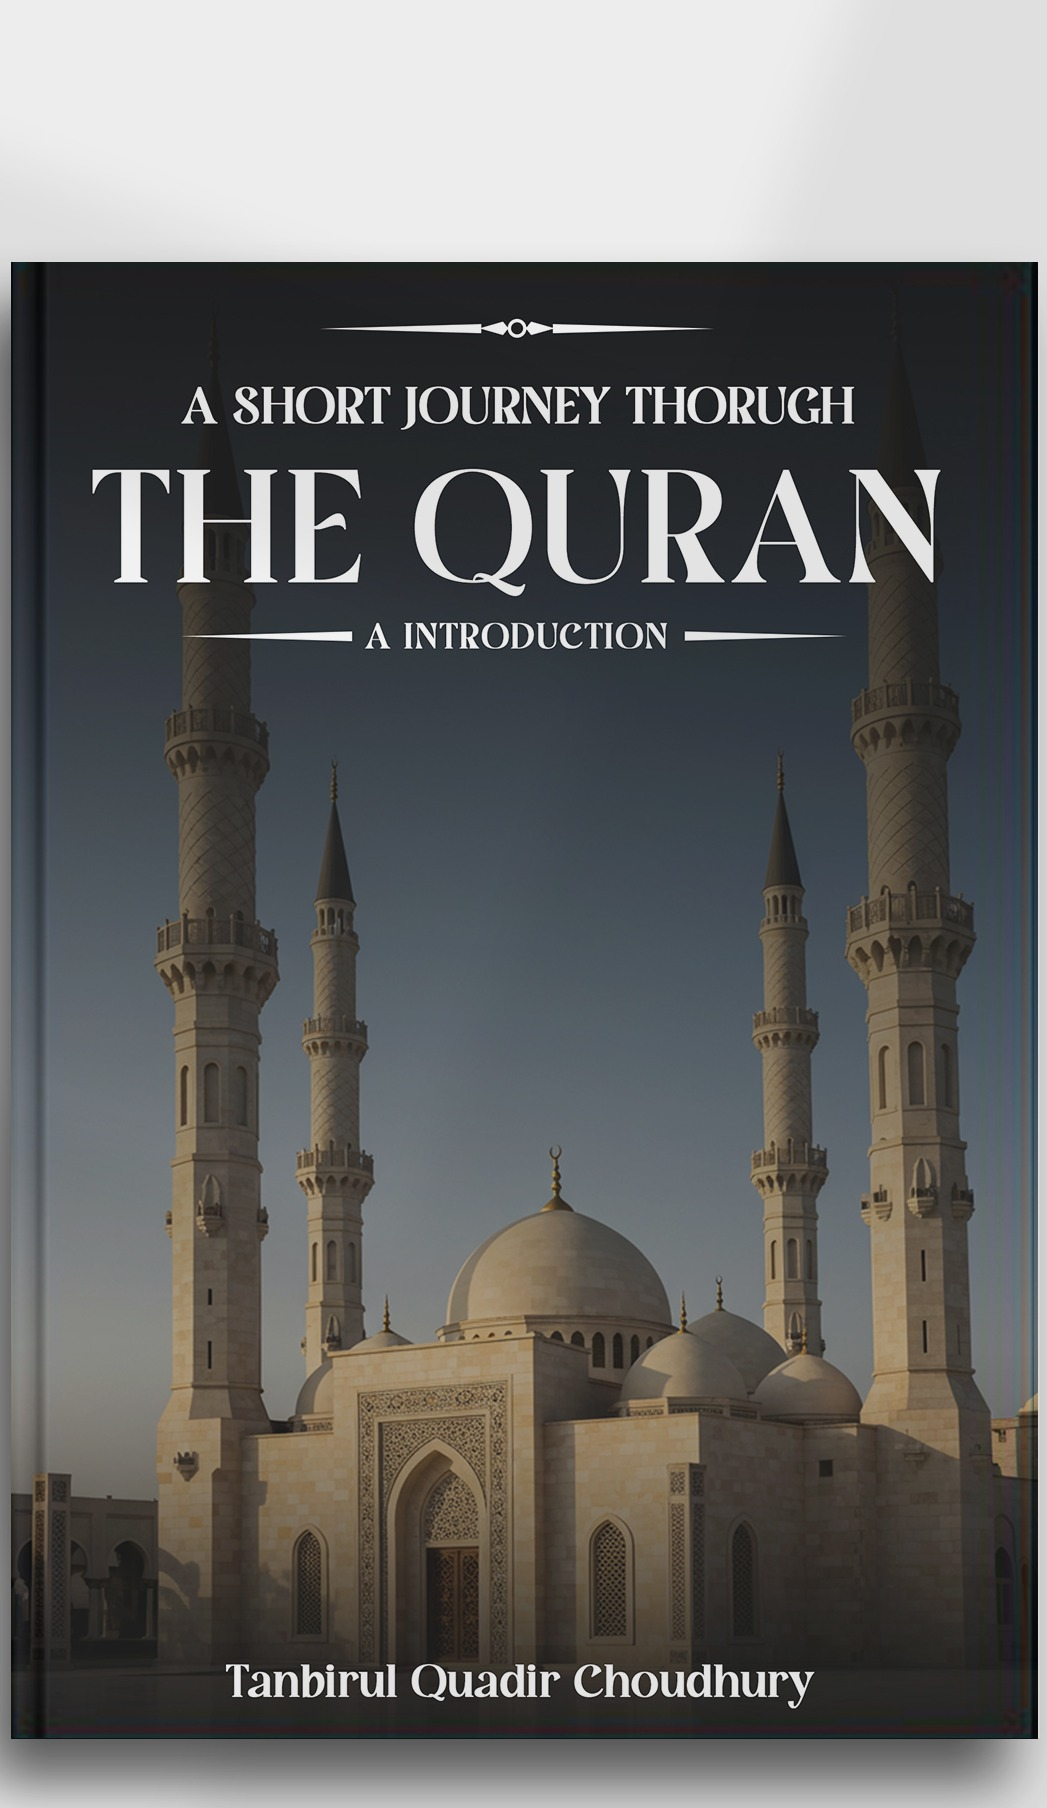
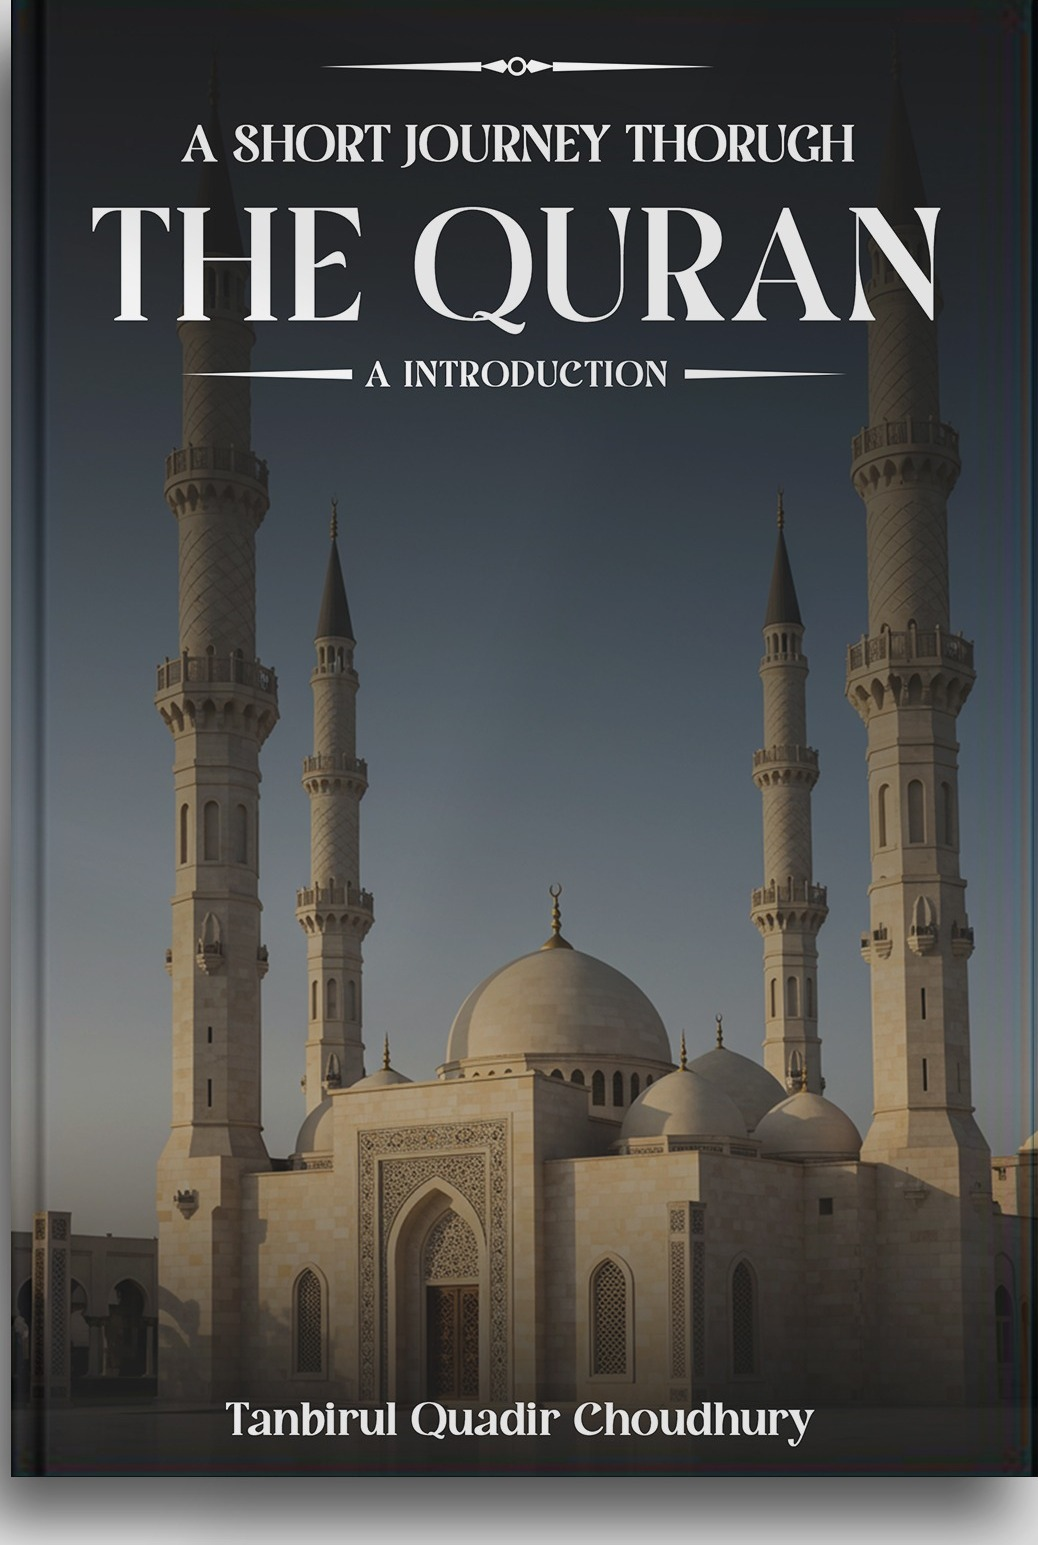
Final fixes: image trim, mobile responsive, spacing
- Auto-trimmed 262px white border from top of both covers
- Trimmed right/bottom white bleed edges
- Front: 1038x1545, Back: 1029x1537 (was 1047x1808)
- Mobile: front cover max-h-[400px], back cover max-h-[300px]
- Hero: min-h-[60vh] mobile, min-h-[75vh] desktop
- All sections: py-6 sm:py-8 lg:py-10
- Headings: text-2xl mobile, text-3xl sm, text-4xl lg
- Body text: text-base mobile, text-lg desktop
- Back cover section: gap-6 mobile, gap-12 desktop
- Card padding: p-5 mobile, p-8 sm, p-10 lg
- Applied to all pages (home, contents, about, contact)

diff --git a/src/app/page.tsx b/src/app/page.tsx
@@ -5,7 +5,7 @@ export default function Home() {
   return (
     <>
       {/* Hero Section */}
-      <section className="relative flex min-h-[70vh] items-center overflow-hidden">
+      <section className="relative flex min-h-[60vh] sm:min-h-[75vh] items-center overflow-hidden">
         {/* Background layers */}
         <div className="absolute inset-0 bg-gradient-to-b from-[#FAF8F5] via-[#F5F0E8] to-[#EDE8E0]" />
         <div className="geometric-pattern absolute inset-0 opacity-60" />
@@ -47,8 +47,8 @@ export default function Home() {
                 width={380}
                 height={600}
                 priority
-                className="book-cover-clean"
-                style={{ width: "auto", height: "auto", maxWidth: "380px" }}
+                className="book-cover-clean max-h-[400px] sm:max-h-none w-auto"
+                style={{ height: "auto", maxWidth: "380px" }}
               />
             </div>
 
@@ -70,7 +70,7 @@ export default function Home() {
                 An Introduction
               </p>
 
-              <p className="animate-fade-in-up delay-400 mt-6 max-w-lg font-body text-lg leading-relaxed text-[#6B5E56]">
+              <p className="animate-fade-in-up delay-400 mt-6 max-w-lg font-body text-base sm:text-lg leading-relaxed text-[#6B5E56]">
                 Embark on an enlightening journey through the Holy Quran. Discover its timeless
                 wisdom, scientific wonders, and the captivating stories of the prophets.
               </p>
@@ -98,26 +98,26 @@ export default function Home() {
       </section>
 
       {/* Book Blurb Section */}
-      <section className="relative py-8 sm:py-10">
+      <section className="relative py-6 sm:py-8 lg:py-10">
         <div className="mx-auto max-w-4xl px-4 sm:px-6 lg:px-8">
           <div className="section-divider mb-6" />
           <div className="animate-fade-in-up text-center">
-            <h2 className="font-heading text-3xl font-bold text-[#8B1A2B] sm:text-4xl">
+            <h2 className="font-heading text-2xl font-bold text-[#8B1A2B] sm:text-3xl lg:text-4xl">
               About This Book
             </h2>
             <div className="mx-auto mt-4 h-1 w-16 rounded bg-[#C9A84C]/60" />
           </div>
           <div className="animate-fade-in-up delay-200 mt-8">
-            <div className="warm-card accent-left p-8 sm:p-10">
+            <div className="warm-card accent-left p-5 sm:p-8 lg:p-10">
               <div className="space-y-6">
-                <p className="font-body text-lg leading-relaxed text-[#6B5E56]">
+                <p className="font-body text-base sm:text-lg leading-relaxed text-[#6B5E56]">
                   With a unique construct and presentation, this book is a short and interesting read
                   highlighting some of the major themes of the Quran. It introduces the reader to the
                   gems hidden within its verses -- from scientific references that predate modern
                   discoveries to the powerful stories of the prophets that continue to resonate across
                   generations.
                 </p>
-                <p className="font-body text-lg leading-relaxed text-[#6B5E56]">
+                <p className="font-body text-base sm:text-lg leading-relaxed text-[#6B5E56]">
                   Written with clarity and care, it is designed to be accessible and enjoyable for
                   readers of all backgrounds -- whether you are encountering the Quran for the first
                   time or revisiting its wisdom with fresh eyes. A readable, enriching journey awaits.
@@ -129,37 +129,37 @@ export default function Home() {
       </section>
 
       {/* Back Cover / Detailed Description */}
-      <section className="relative bg-[#EDE8E0] py-8 sm:py-10">
+      <section className="relative bg-[#EDE8E0] py-6 sm:py-8 lg:py-10">
         <div className="geometric-pattern absolute inset-0 opacity-40" />
         <div className="relative mx-auto max-w-6xl px-4 sm:px-6 lg:px-8">
-          <div className="grid items-center gap-12 lg:grid-cols-2">
+          <div className="grid items-center gap-6 lg:gap-12 lg:grid-cols-2">
             <div className="animate-slide-in-left">
               <Image
                 src="/images/book-cover-back.jpg"
                 alt="A Short Journey Through The Quran - Back Cover"
                 width={480}
                 height={800}
-                className="book-cover-clean mx-auto"
-                style={{ width: "100%", height: "auto", maxWidth: "420px" }}
+                className="book-cover-clean mx-auto max-h-[300px] sm:max-h-none w-auto sm:w-full"
+                style={{ height: "auto", maxWidth: "420px" }}
               />
             </div>
             <div className="animate-slide-in-right space-y-6">
-              <h2 className="font-heading text-3xl font-bold text-[#1B2A4A] sm:text-4xl">
+              <h2 className="font-heading text-2xl font-bold text-[#1B2A4A] sm:text-3xl lg:text-4xl">
                 Discover the Quran
               </h2>
               <div className="h-1 w-16 rounded bg-[#C9A84C]/60" />
-              <p className="font-body text-lg leading-relaxed text-[#6B5E56]">
+              <p className="font-body text-base sm:text-lg leading-relaxed text-[#6B5E56]">
                 Discover the foundational scripture that has shaped civilizations and inspired
                 billions. This book introduces you to the major themes and narratives of the
                 Holy Quran in an accessible, engaging format.
               </p>
-              <p className="font-body text-lg leading-relaxed text-[#6B5E56]">
+              <p className="font-body text-base sm:text-lg leading-relaxed text-[#6B5E56]">
                 Learn about the stories of the great prophets -- Abraham (Ibrahim), Moses (Musa),
                 Jesus (Issa), and Joseph (Yousuf) -- and the divine books including the Torah and
                 the Gospel. Explore references to science, history, and moral guidance that remain
                 profoundly relevant today.
               </p>
-              <p className="font-body text-lg leading-relaxed text-[#6B5E56]">
+              <p className="font-body text-base sm:text-lg leading-relaxed text-[#6B5E56]">
                 Ideal for students, curious minds, and anyone seeking to understand the essence
                 of the Quran without being overwhelmed. Begin your journey here.
               </p>
@@ -169,14 +169,14 @@ export default function Home() {
       </section>
 
       {/* Key Highlights */}
-      <section className="py-8 sm:py-10">
+      <section className="py-6 sm:py-8 lg:py-10">
         <div className="mx-auto max-w-7xl px-4 sm:px-6 lg:px-8">
           <div className="animate-fade-in-up text-center">
-            <h2 className="font-heading text-3xl font-bold text-[#8B1A2B] sm:text-4xl">
+            <h2 className="font-heading text-2xl font-bold text-[#8B1A2B] sm:text-3xl lg:text-4xl">
               Key Highlights
             </h2>
             <div className="mx-auto mt-4 h-1 w-16 rounded bg-[#C9A84C]/60" />
-            <p className="mt-4 font-body text-lg text-[#6B5E56]">
+            <p className="mt-4 font-body text-base sm:text-lg text-[#6B5E56]">
               What makes this book a must-read
             </p>
           </div>
@@ -204,14 +204,14 @@ export default function Home() {
       </section>
 
       {/* Where to Buy */}
-      <section id="where-to-buy" className="bg-[#EDE8E0] py-8 sm:py-10">
+      <section id="where-to-buy" className="bg-[#EDE8E0] py-6 sm:py-8 lg:py-10">
         <div className="mx-auto max-w-5xl px-4 sm:px-6 lg:px-8">
           <div className="animate-fade-in-up text-center">
-            <h2 className="font-heading text-3xl font-bold text-[#1B2A4A] sm:text-4xl">
+            <h2 className="font-heading text-2xl font-bold text-[#1B2A4A] sm:text-3xl lg:text-4xl">
               Where to Buy
             </h2>
             <div className="mx-auto mt-4 h-1 w-16 rounded bg-[#C9A84C]/60" />
-            <p className="mt-4 font-body text-lg text-[#6B5E56]">
+            <p className="mt-4 font-body text-base sm:text-lg text-[#6B5E56]">
               Get your copy today from these retailers
             </p>
           </div>
@@ -242,10 +242,10 @@ export default function Home() {
       </section>
 
       {/* Book Details */}
-      <section className="py-8 sm:py-10">
+      <section className="py-6 sm:py-8 lg:py-10">
         <div className="mx-auto max-w-4xl px-4 sm:px-6 lg:px-8">
           <div className="animate-fade-in-up text-center">
-            <h2 className="font-heading text-3xl font-bold text-[#8B1A2B] sm:text-4xl">
+            <h2 className="font-heading text-2xl font-bold text-[#8B1A2B] sm:text-3xl lg:text-4xl">
               Book Details
             </h2>
             <div className="mx-auto mt-4 h-1 w-16 rounded bg-[#C9A84C]/60" />
@@ -274,15 +274,15 @@ export default function Home() {
       </section>
 
       {/* Final CTA */}
-      <section className="relative overflow-hidden py-8 sm:py-10">
+      <section className="relative overflow-hidden py-6 sm:py-8 lg:py-10">
         <div className="absolute inset-0 bg-gradient-to-b from-[#EDE8E0] via-[#F5F0E8] to-[#FAF8F5]" />
         <div className="geometric-pattern absolute inset-0 opacity-40" />
         <div className="relative mx-auto max-w-3xl px-4 text-center sm:px-6 lg:px-8">
-          <h2 className="animate-fade-in-up font-heading text-3xl font-bold sm:text-4xl">
+          <h2 className="animate-fade-in-up font-heading text-2xl font-bold sm:text-3xl lg:text-4xl">
             Begin Your{" "}
             <span className="text-[#8B1A2B]">Journey</span>
           </h2>
-          <p className="animate-fade-in-up delay-200 mt-4 font-body text-lg text-[#6B5E56]">
+          <p className="animate-fade-in-up delay-200 mt-4 font-body text-base sm:text-lg text-[#6B5E56]">
             Open the pages and discover the wisdom, beauty, and guidance of the Holy Quran.
           </p>
           <div className="animate-fade-in-up delay-300 mt-8 flex flex-col justify-center gap-4 sm:flex-row">

diff --git a/src/app/about/page.tsx b/src/app/about/page.tsx
@@ -12,7 +12,7 @@ export default function AboutPage() {
   return (
     <div className="bg-cream">
       {/* Header */}
-      <section className="relative overflow-hidden py-8 sm:py-10">
+      <section className="relative overflow-hidden py-6 sm:py-8 lg:py-10">
         <div className="geometric-pattern absolute inset-0 opacity-20" />
         <div className="absolute inset-0 bg-gradient-to-b from-cream via-transparent to-cream" />
         <div className="relative mx-auto max-w-4xl px-4 text-center sm:px-6 lg:px-8">
@@ -44,7 +44,7 @@ export default function AboutPage() {
 
             {/* About the Book */}
             <div className="animate-slide-in-right lg:col-span-3">
-              <h2 className="font-heading text-3xl font-bold text-burgundy sm:text-4xl">
+              <h2 className="font-heading text-2xl font-bold sm:text-3xl lg:text- text-burgundy sm:text-4xl">
                 About the Book
               </h2>
               <div className="mt-3 h-1 w-16 rounded bg-gold" />
@@ -91,7 +91,7 @@ export default function AboutPage() {
       <section className="py-16">
         <div className="mx-auto max-w-4xl px-4 sm:px-6 lg:px-8">
           <div className="animate-fade-in-up">
-            <h2 className="font-heading text-3xl font-bold text-navy sm:text-4xl">
+            <h2 className="font-heading text-2xl font-bold sm:text-3xl lg:text- text-navy sm:text-4xl">
               About the Author
             </h2>
             <div className="mt-3 h-1 w-16 rounded bg-gold" />

diff --git a/src/app/contents/page.tsx b/src/app/contents/page.tsx
@@ -113,7 +113,7 @@ export default function ContentsPage() {
   return (
     <>
       {/* Header */}
-      <section className="relative overflow-hidden bg-gradient-to-b from-[#FAF8F5] via-[#F5F0E8] to-[#FAF8F5] py-8 sm:py-10">
+      <section className="relative overflow-hidden bg-gradient-to-b from-[#FAF8F5] via-[#F5F0E8] to-[#FAF8F5] py-6 sm:py-8 lg:py-10">
         <div className="geometric-pattern absolute inset-0 opacity-40" />
         <div className="relative mx-auto max-w-4xl px-4 text-center sm:px-6 lg:px-8">
           <h1 className="animate-fade-in-up font-heading text-4xl font-bold text-[#8B1A2B] sm:text-5xl">

diff --git a/src/app/contact/page.tsx b/src/app/contact/page.tsx
@@ -77,7 +77,7 @@ export default function ContactPage() {
       )}
 
       {/* Header */}
-      <section className="relative overflow-hidden py-8 sm:py-10">
+      <section className="relative overflow-hidden py-6 sm:py-8 lg:py-10">
         <div className="geometric-pattern absolute inset-0 opacity-20" />
         <div className="absolute inset-0 bg-gradient-to-b from-cream via-transparent to-cream" />
         <div className="relative mx-auto max-w-4xl px-4 text-center sm:px-6 lg:px-8">
